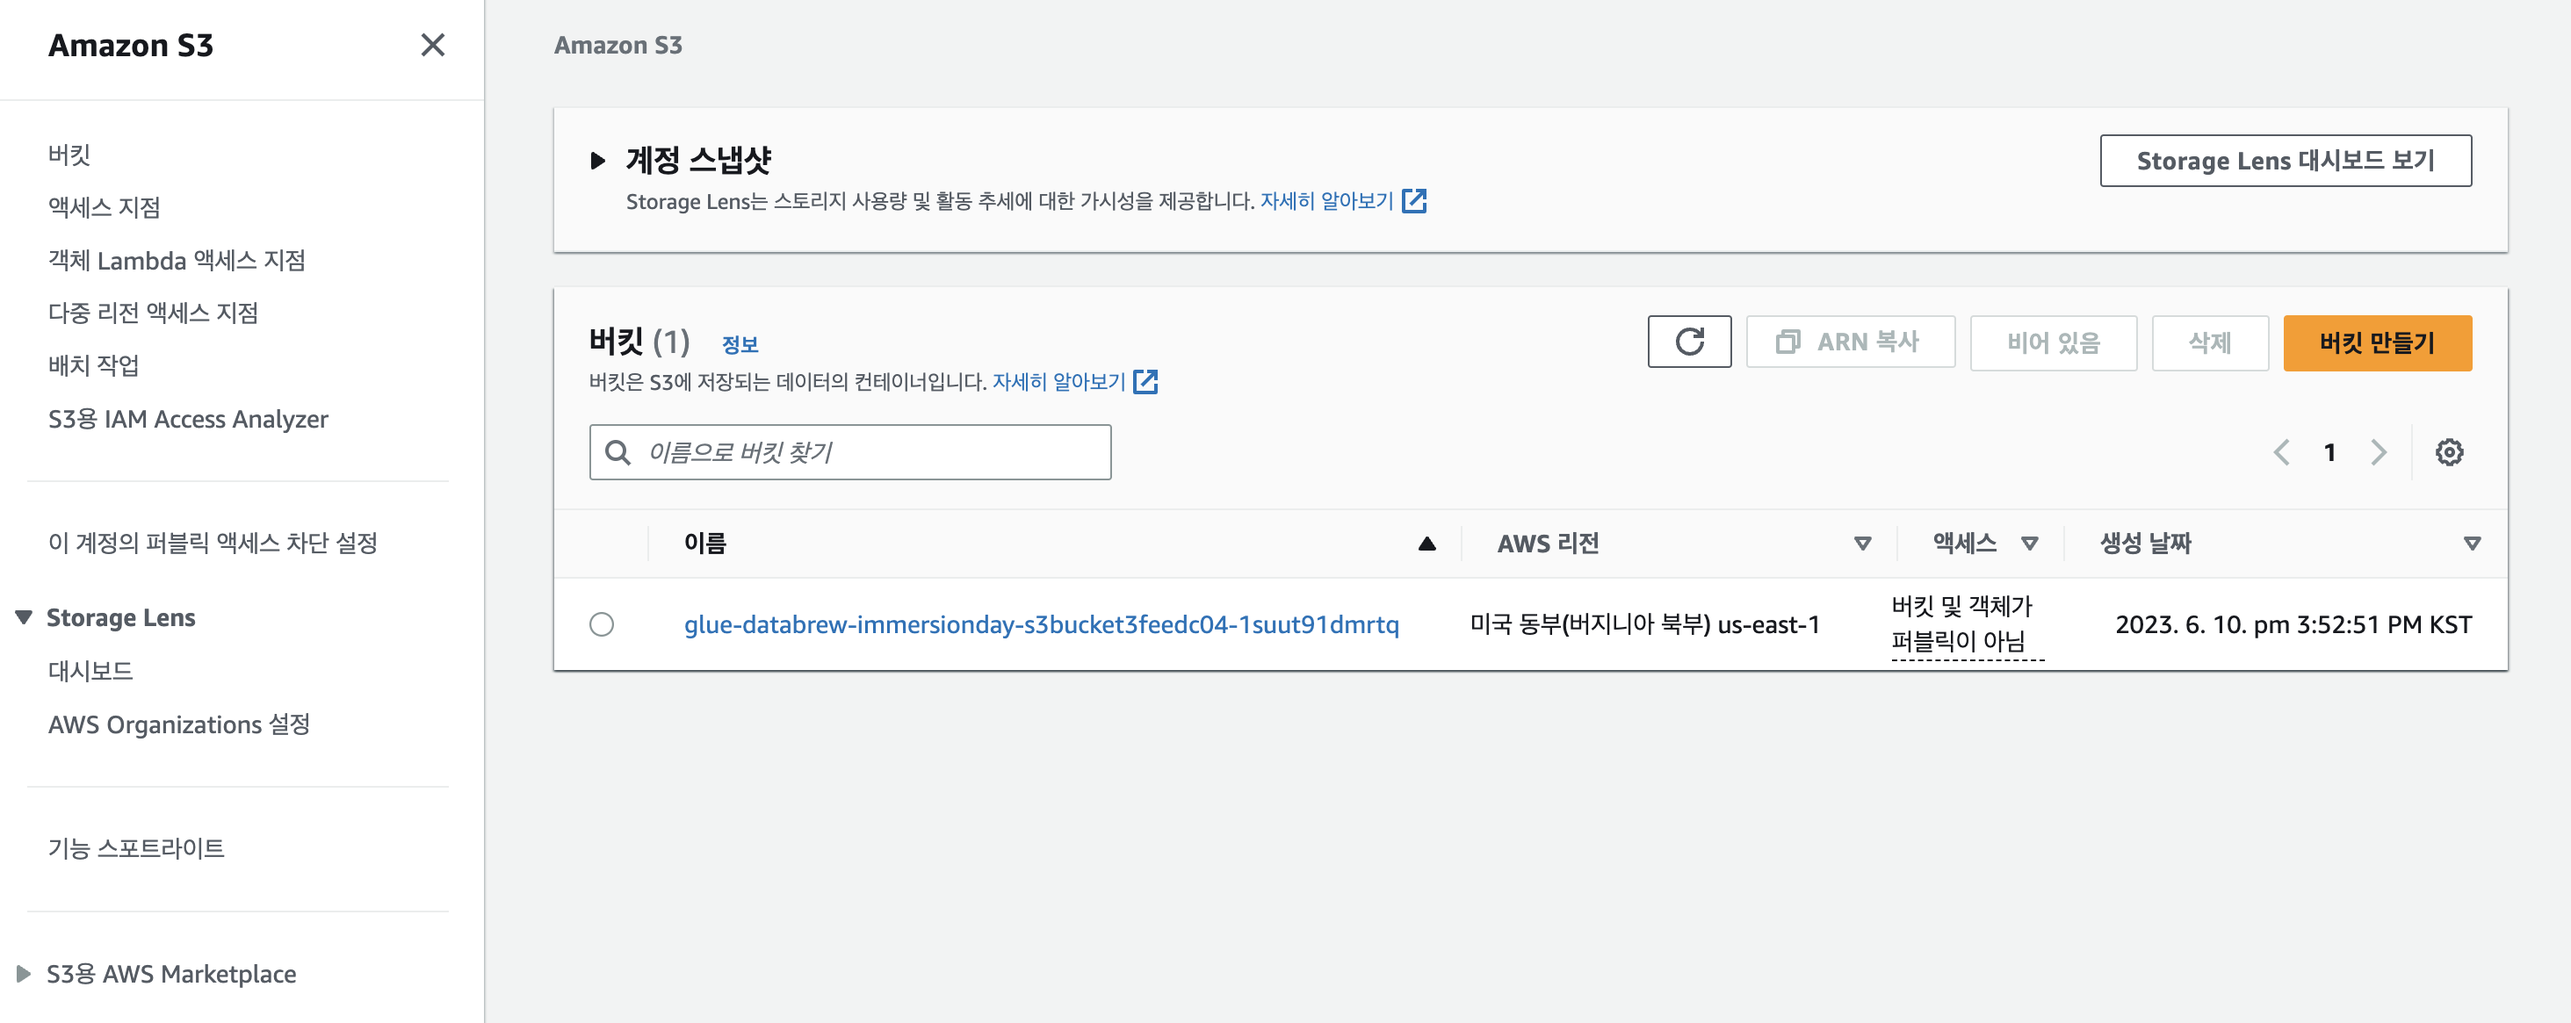
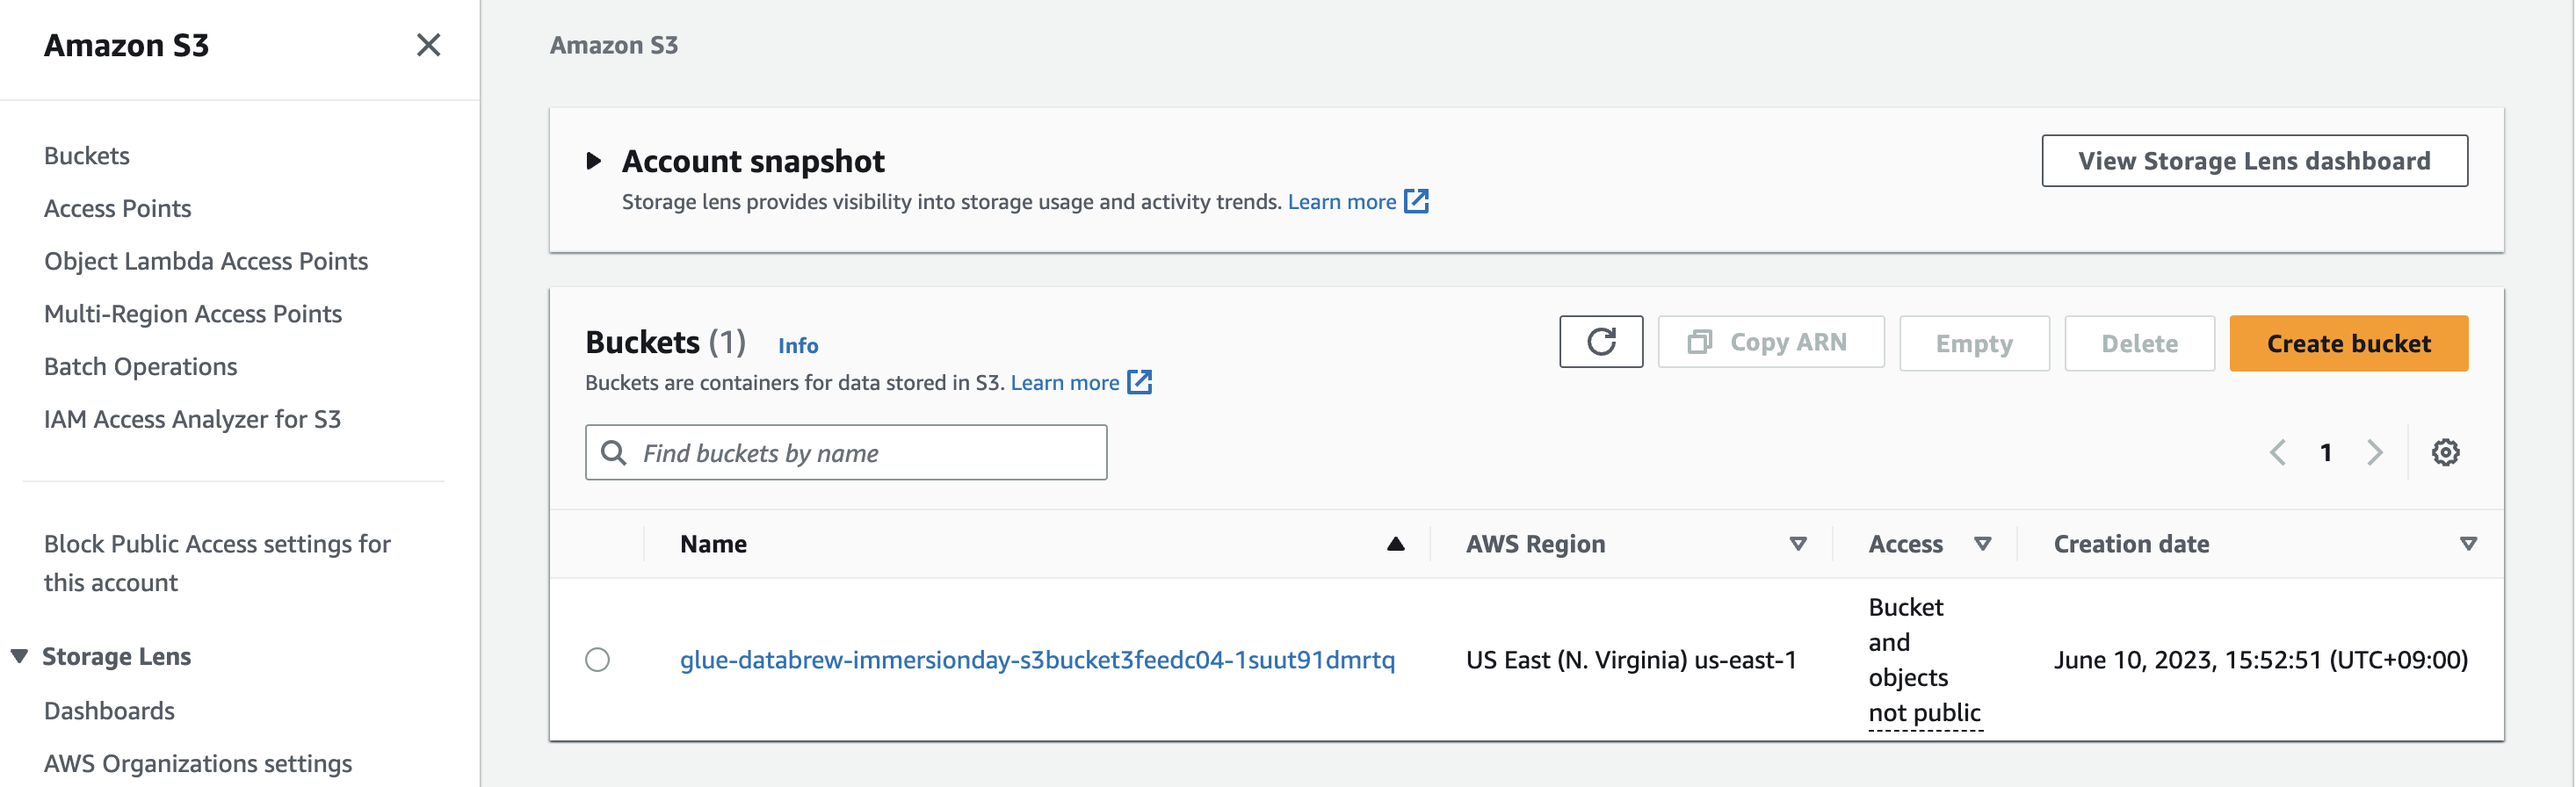
PII

diff --git a/DataBrew 워크샵.md b/DataBrew 워크샵.md
@@ -82,7 +82,8 @@ Dataset은 단순히 열 또는 필드로 나뉜 데이터 행 또는 레코드 
 
 이 실습에서는 Customers dataset을 만듭니다. 아래는 샘플 고객 데이터입니다.
  
-1. [AWS Glue DataBrew](https://console.aws.amazon.com/databrew/home?region=us-east-1#)서비로 이동합니다. 오른쪽 상단에 **미국 동부 (버지니아 북부) us-east-1** 리전을 사용하고 있는지 확인합니다.
+1. [AWS Glue DataBrew](https://console.aws.amazon.com/databrew/home?region=us-east-1#)서비로 이동합니다.
+오른쪽 상단에 **US East (N. Virginia) us-east-1** 리전을 사용하고 있는지 확인합니다.
    - ![](images/checkregion.png)
 
 1. 왼쪽 메뉴에서 **Datasets**를 선택합니다.
@@ -94,7 +95,7 @@ Dataset은 단순히 열 또는 필드로 나뉜 데이터 행 또는 레코드 
 
 1. 서비스로 **Amazon S3**를 선택합니다.
 
-1. **Enter your source from S3** 필드에 *s3://glue-databrew-immersionday*를 입력합니다. CloudFormation 템플릿으로 생성한 버킷을 선택합니다.
+1. **Enter your source from S3** 텍스트 박스에 *s3://glue-databrew-immersionday*를 입력합니다. CloudFormation 템플릿으로 생성한 버킷을 선택합니다.
 
 1. **datafiles > customer**s** 폴더로 이동합니다.
 
@@ -137,7 +138,34 @@ Dataset은 단순히 열 또는 필드로 나뉜 데이터 행 또는 레코드 
    - ![](images/create_a_customer_profile_2.png)
 
 
-1. Job 이름으로 *Customers profile job* 입력합니다.
+1. Job name 텍스트 박스에 *Customers profile job* 입력합니다.
 
 1. **Full dataset** 선택합니다.
    - ![](images/create_a_customer_profile_3.png)
+
+
+1. Browse 버튼을 클릭하여 **glue-databrew-immersionday-*** S3 버킷 > profile-output 폴더**를 선택 후 Select 버튼을 클릭합니다.
+   - ![](images/create_a_customer_profile_4.png)
+
+1. **Data profile configurations**을 확장하고, 데이터 프로필 작업을 실행할 때 PII 열을 식별하려면 **PII statistics**에서 **Enable PII statistics**을 선택합니다. 추가로 **PII categories**에서 All categories**를 선택합니다.
+   - ![](images/create_a_customer_profile_5.png)
+
+
+1. **Permissions** 섹션으로 건너뛰고, **Role name** 드롭다운하여 **Create new IAM role**를 선택합니다.
+
+1. **New IAM Role suffix** 텍스트 박스에 *ID*를 입력합니다. 그러면 AWSGlueDataBrewServiceRole-ID라는 새 IAM role이 생성됩니다.
+
+1. **Create and run job**을 선택합니다.
+
+   - ![](images/create_a_customer_profile_6.png)
+
+
+1. 그러면 **Customers dataset**의 **Data profile overview** 탭으로 이동합니다.
+작업이 완료되는 데 약 5분이 소요됩니다.
+   - ![](images/create_a_customer_profile_7.png)
+
+
+1. 이 보고서는 컬럼 통계와 함께 PII 대상으로 확인된 PII 컬럼의 목록을 제공합니다. 또한 검토할 수 있는 잠재적인 PII 열을 보여줍니다.
+Standard Transform module에서는 변환을 적용하여 확인된 PII 열을 선택적으로 삭제합니다.
+
+다음으로, Sales Dataset 및 Data Quality Rules을 생성합니다.
